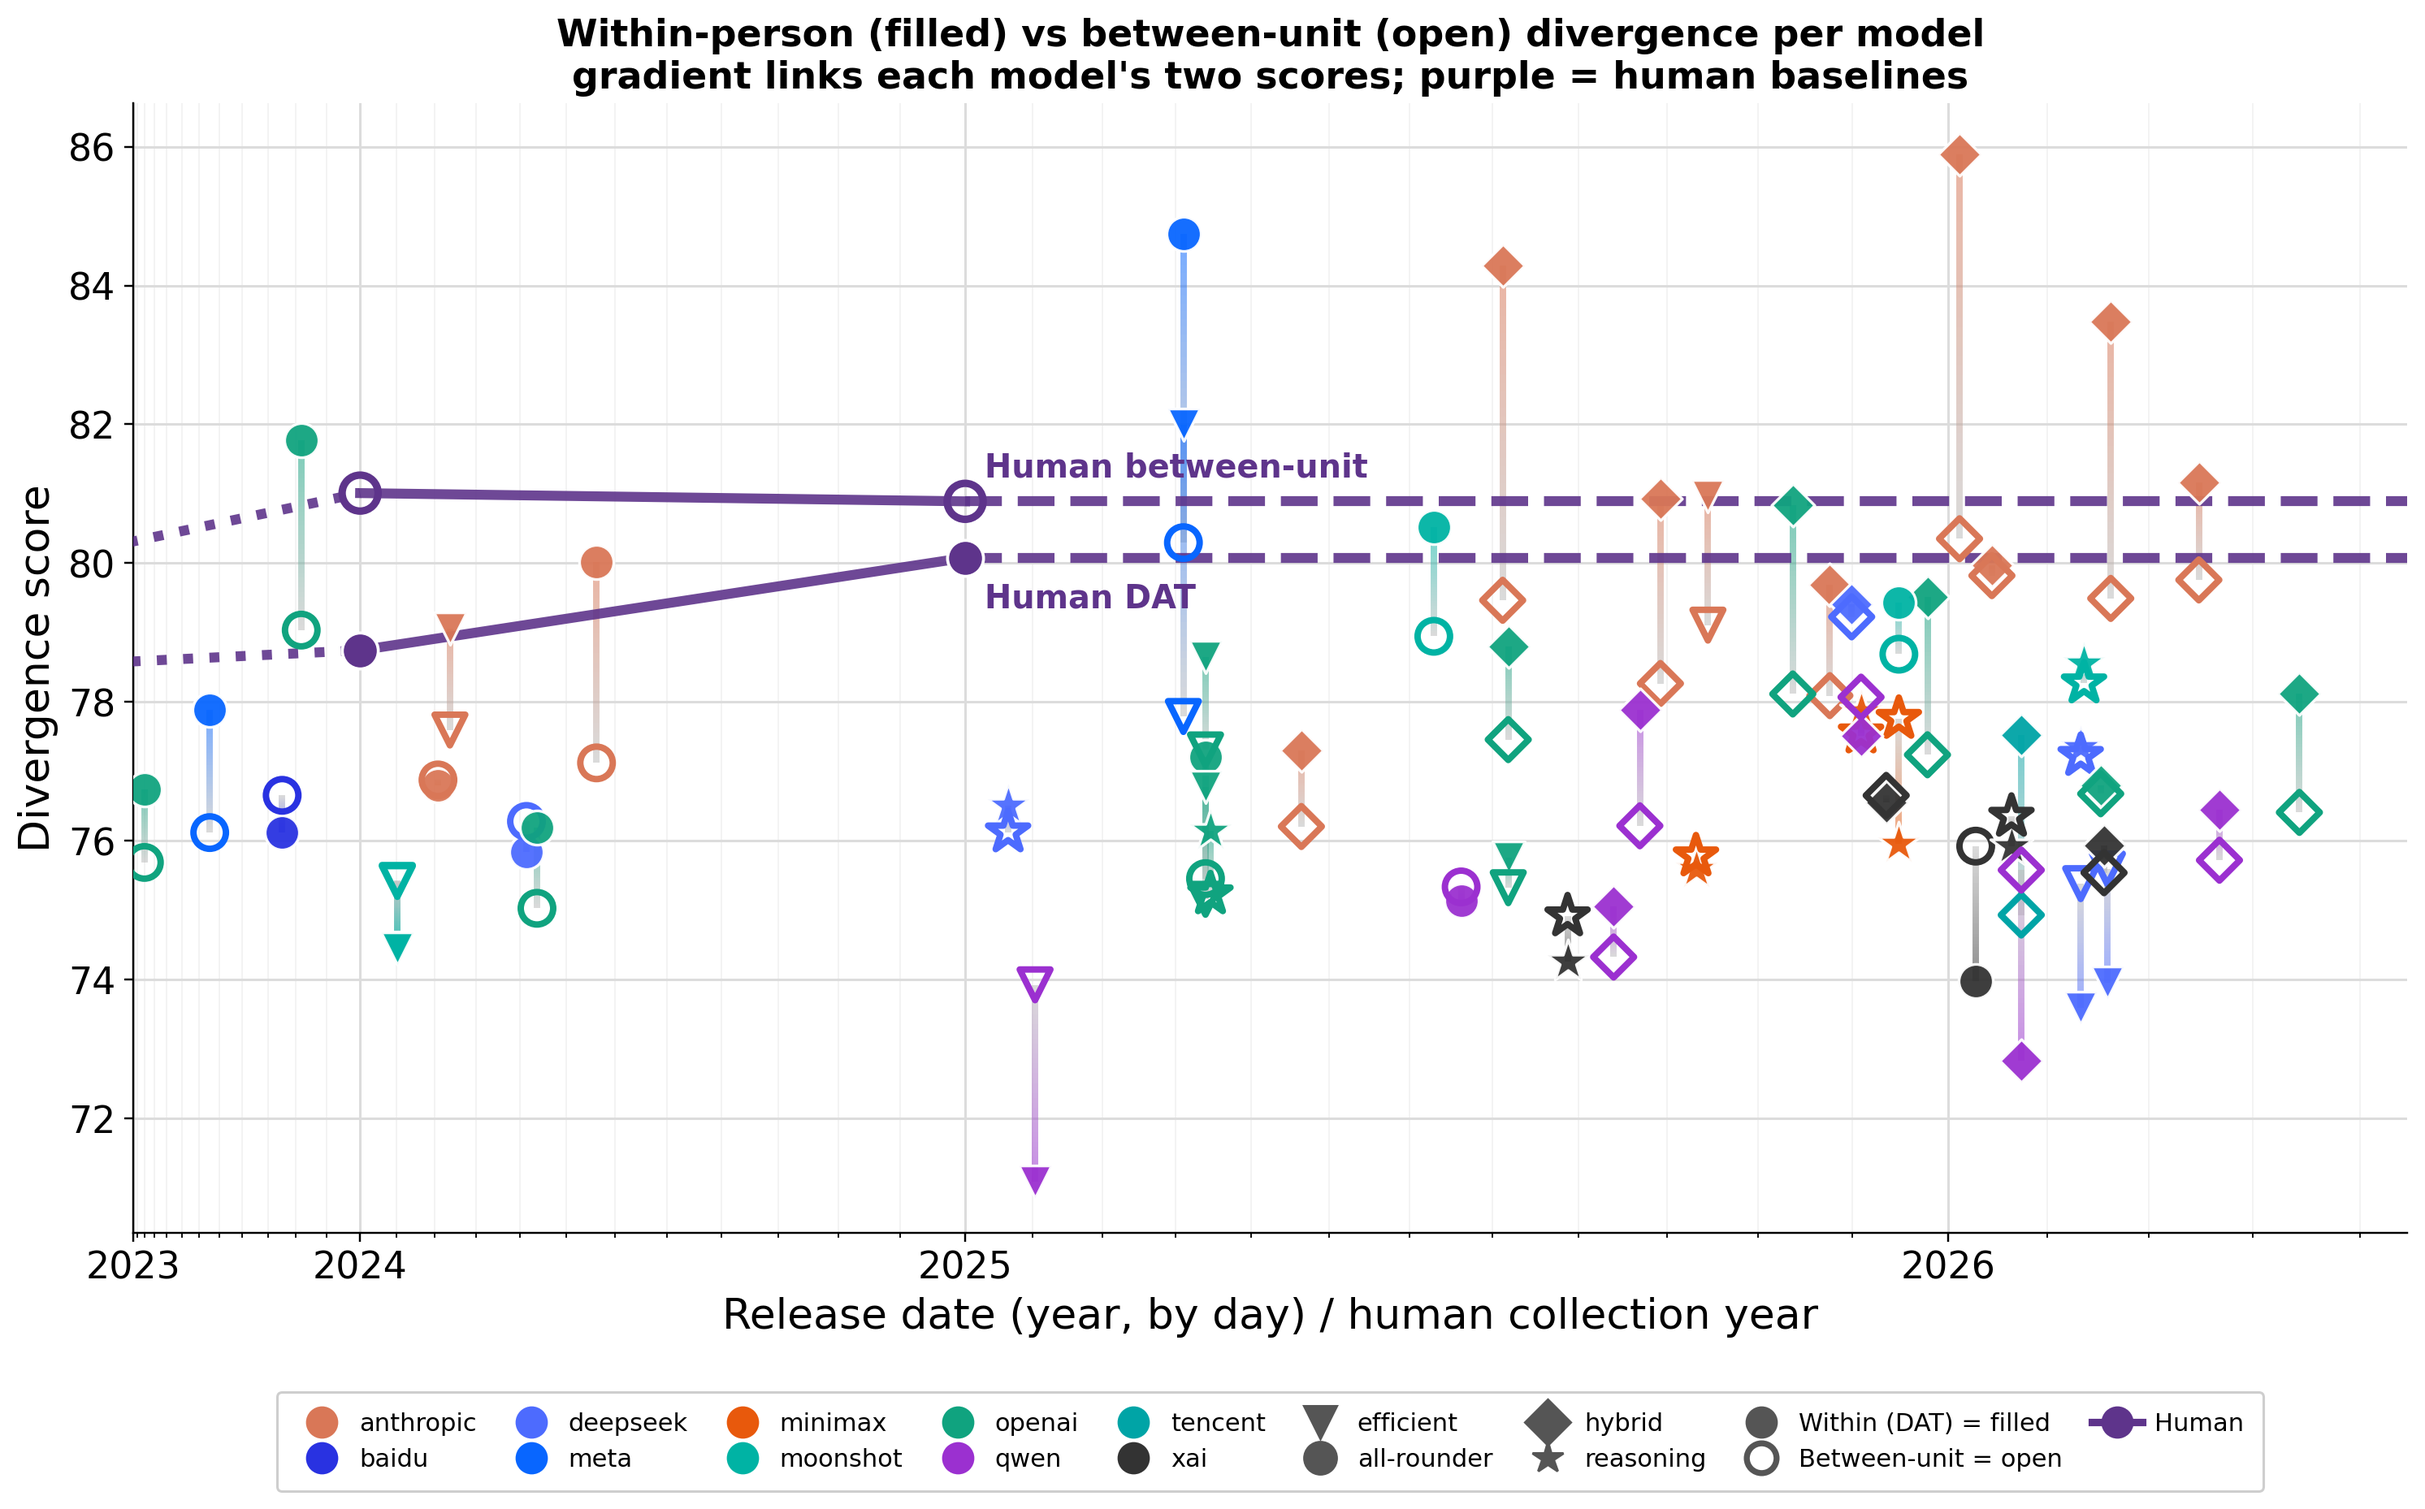
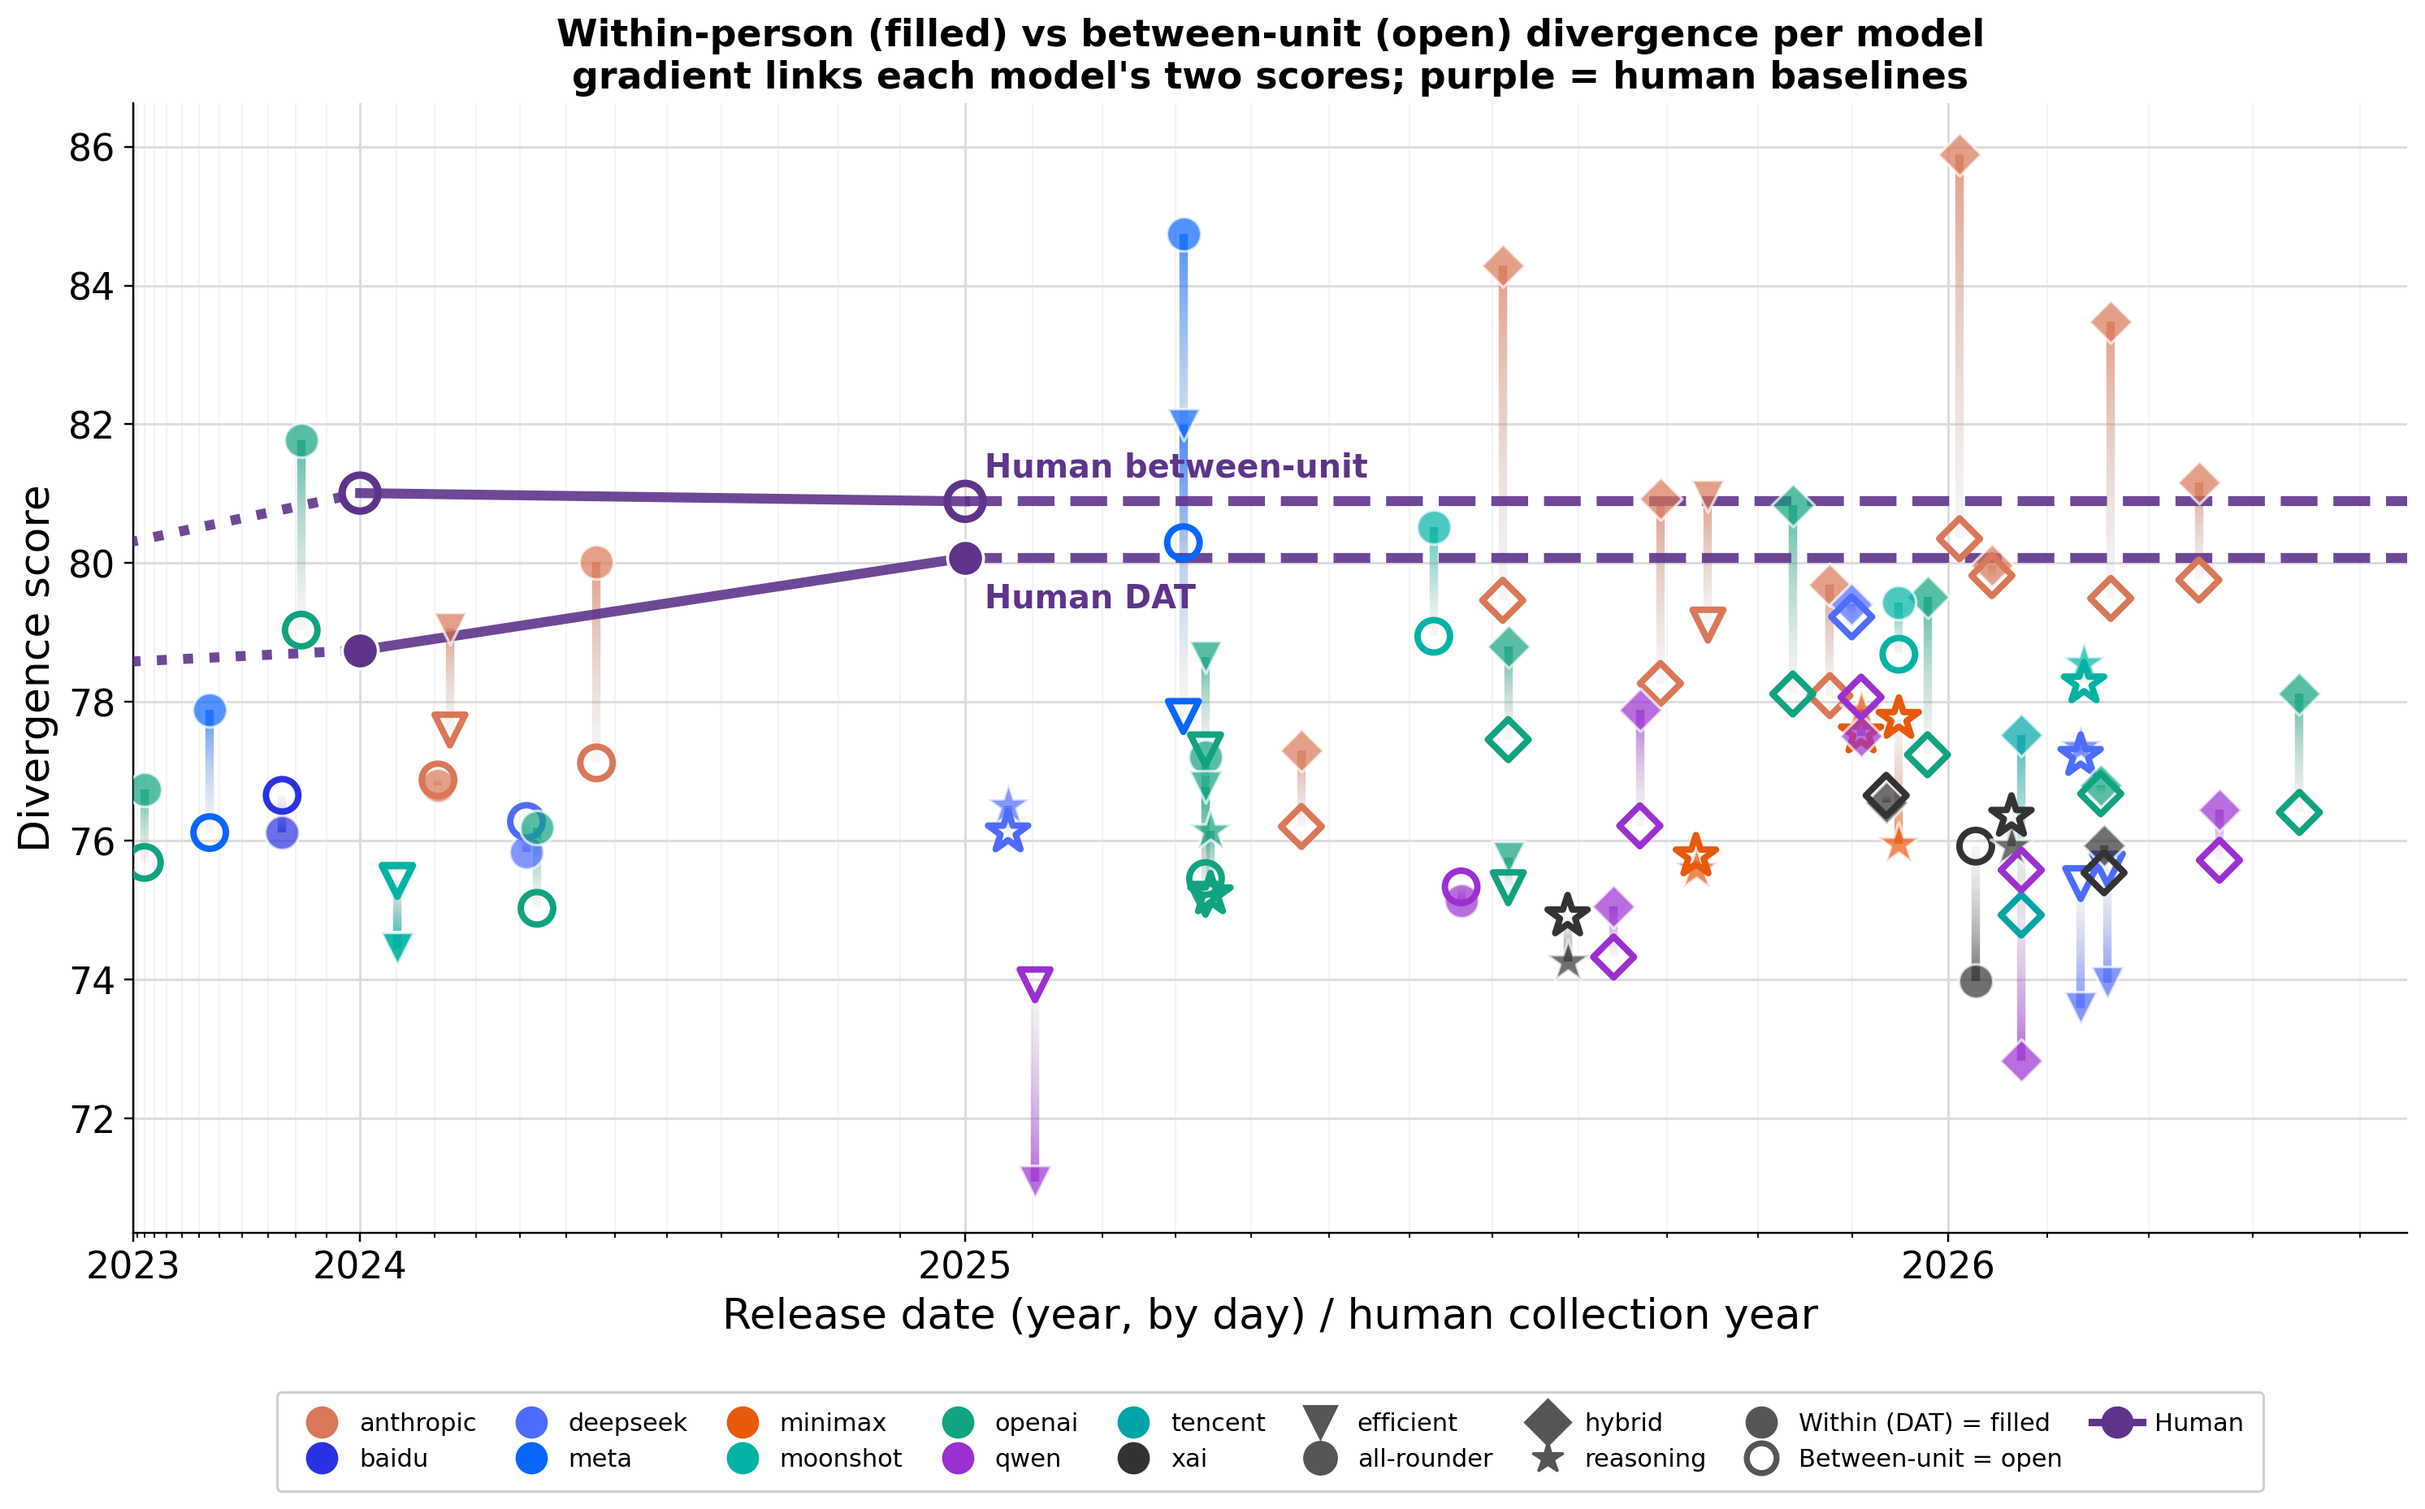
Overlay: DAT circles 30% transparent; thicker connectors with alpha ramp (0.70 at DAT end -> faded at between end)

diff --git a/analysis/within_vs_between_overlay_plot.py b/analysis/within_vs_between_overlay_plot.py
@@ -24,12 +24,17 @@ btw,btw_hy=load("between_data.json")
 models=[m for m in dat if m in btw]
 allx=[dat[m][0] for m in models]; xmin=min(allx)-1/12; xmax=max(allx)+1/12
 
-def grad_segments(x,y0,y1,c0,c1,n=40):
+def grad_segments(x,y0,y1,c0,c1,n=40,a0=0.70,a1=0.12):
+    # y0 = DAT end (alpha a0=0.70, matches 30%-transparent DAT circle); y1 = between end (alpha a1, faded)
     ys=np.linspace(y0,y1,n+1); xs=np.full(n+1,x)
     pts=np.array([xs,ys]).T.reshape(-1,1,2)
     segs=np.concatenate([pts[:-1],pts[1:]],axis=1)
     c0=np.array(mpl.colors.to_rgb(c0)); c1=np.array(mpl.colors.to_rgb(c1))
-    cols=[(1-t)*c0+t*c1 for t in np.linspace(0,1,n)]
+    cols=[]
+    for t in np.linspace(0,1,n):
+        rgb=(1-t)*c0+t*c1
+        a=(1-t)*a0+t*a1
+        cols.append((rgb[0],rgb[1],rgb[2],a))
     return segs,cols
 
 fig,ax=plt.subplots(figsize=(14,9))
@@ -38,11 +43,11 @@ for m in models:
     x=dat[m][0]; p=dat[m][4]; intel=dat[m][5]
     yd=dat[m][7]; yb=btw[m][7]; col=PROV_COLOR.get(p,'#888')
     segs,cols=grad_segments(tx(x),yd,yb,col,GRAD_TO)
-    ax.add_collection(LineCollection(segs,colors=cols,linewidths=2.6,alpha=0.55,zorder=3))
+    ax.add_collection(LineCollection(segs,colors=cols,linewidths=3.4,zorder=3))
 # markers on top: filled = DAT, open thick = between
 for m in models:
     x=dat[m][0]; p=dat[m][4]; intel=dat[m][5]; col=PROV_COLOR.get(p,'#888')
-    ax.scatter(tx(x),dat[m][7],marker=MARK[intel],s=SIZE[intel],color=col,alpha=0.95,zorder=6,edgecolors='white',linewidths=1.1)
+    ax.scatter(tx(x),dat[m][7],marker=MARK[intel],s=SIZE[intel],color=col,alpha=0.70,zorder=6,edgecolors='white',linewidths=1.1)
     ax.scatter(tx(x),btw[m][7],marker=MARK[intel],s=SIZE[intel]*0.9,facecolors='none',edgecolors=col,linewidths=2.6,zorder=6)
 # human baselines: DAT filled dashed, between open dashed
 def human_line(hy,style,fillopen):
